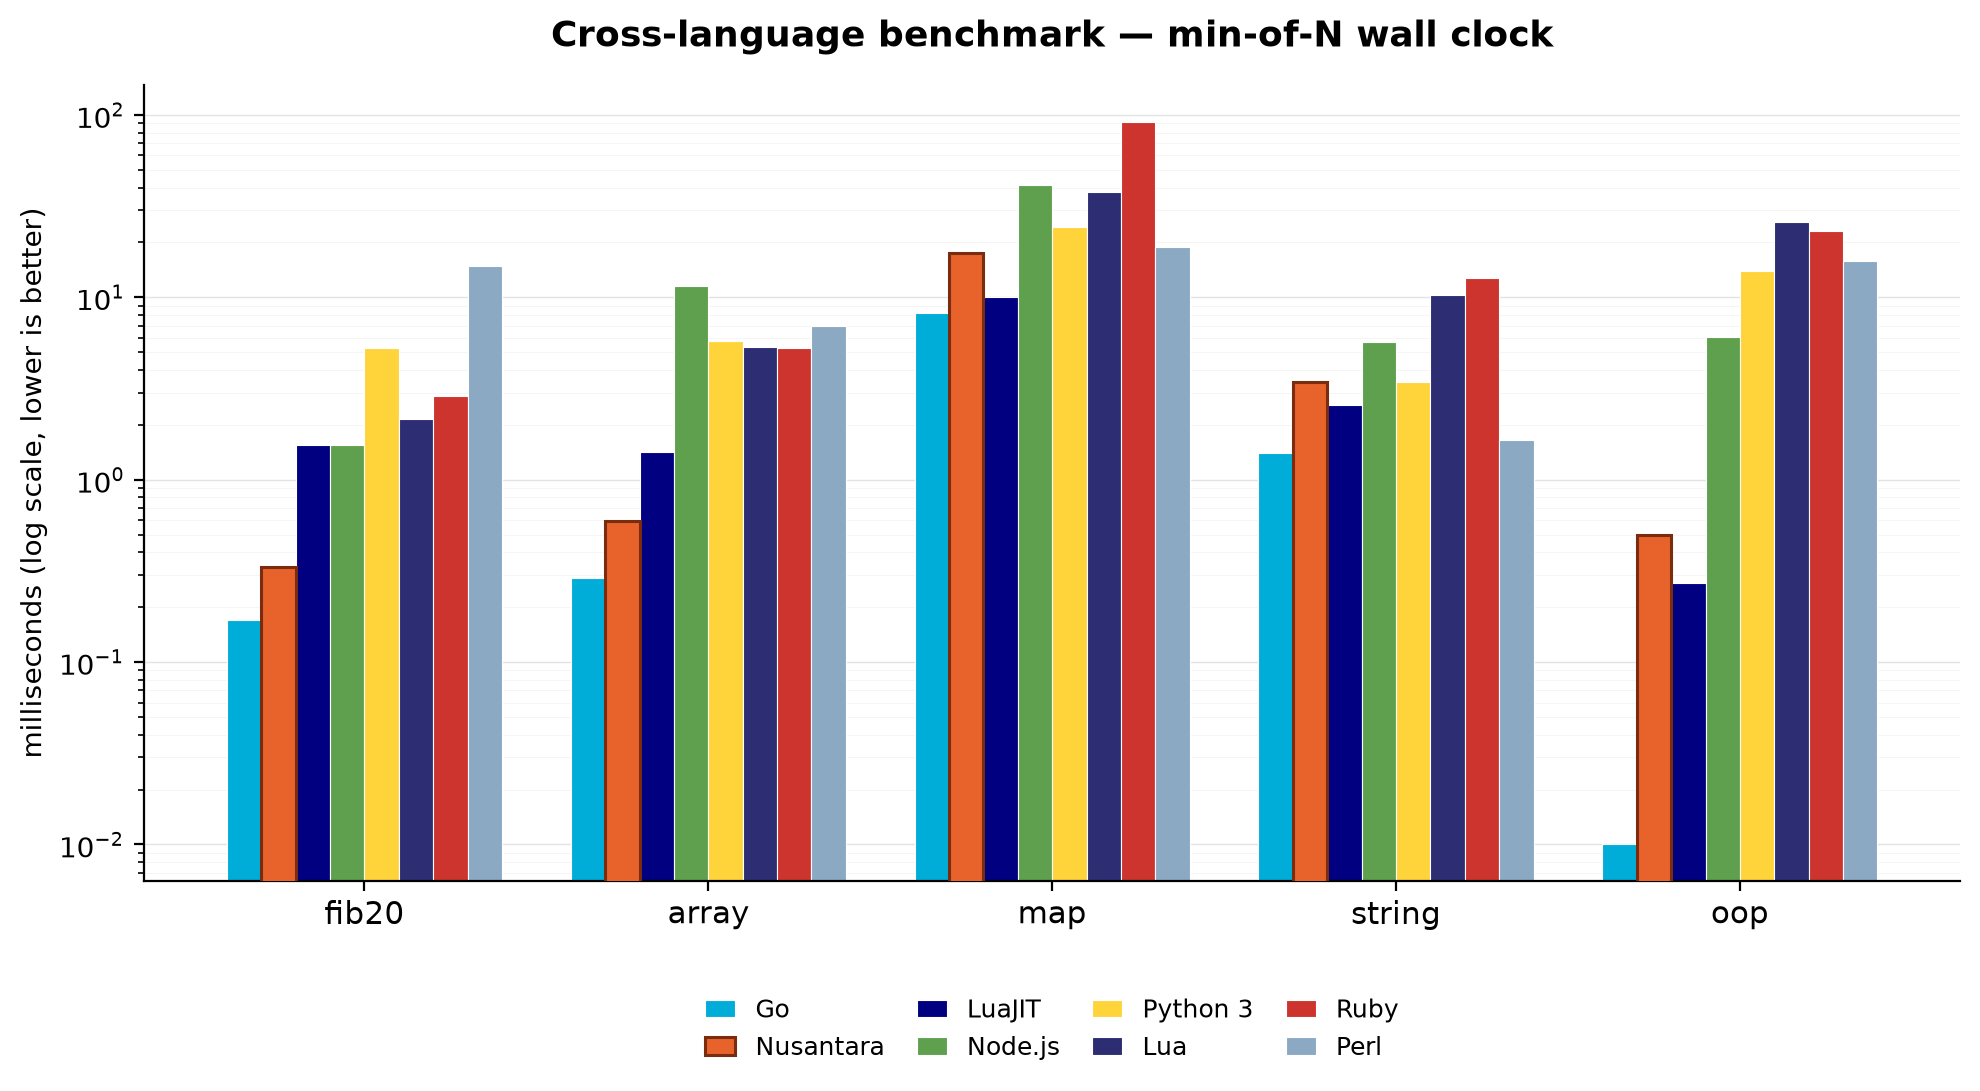
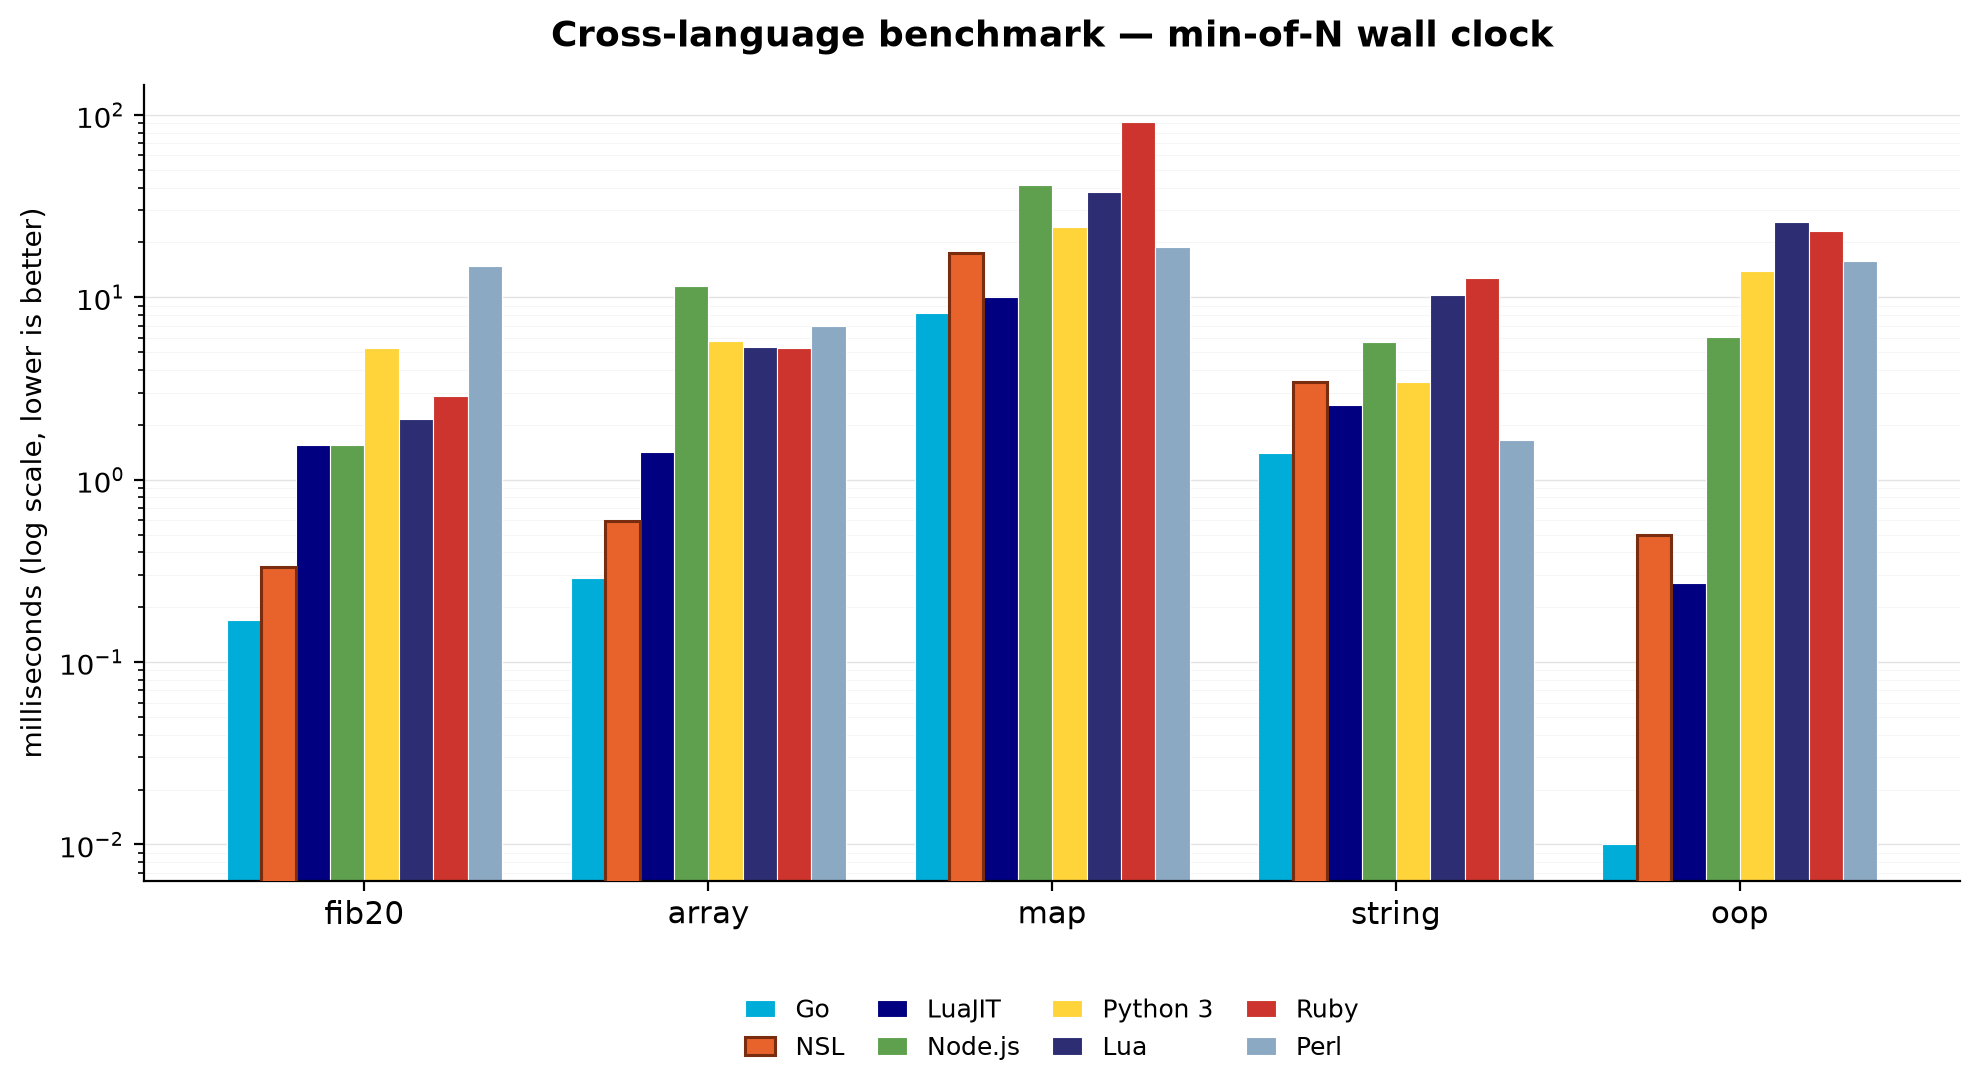
docs: fix branding consistency and tidy up release notes

Changed region(s): [[0.3389, 0.9038, 0.7086, 0.9661]]

diff --git a/README.md b/README.md
@@ -1,3 +1,7 @@
+<p align="center">
+  <img src="docs/hero.svg" width="720" alt="NSL" />
+</p>
+
 # Nusantara
 
 Nusantara is a programming language that compiles and runs itself — the lexer, parser, interpreter, bytecode VM, and native x86-64 compiler are all written in Nusantara, bootstrapped once by a small C++ host. You can write keywords in English (`func`, `if`, `return`) or Indonesian (`fungsi`, `jika`, `hasil`) and mix them freely in the same file; blocks can use colons or braces.
